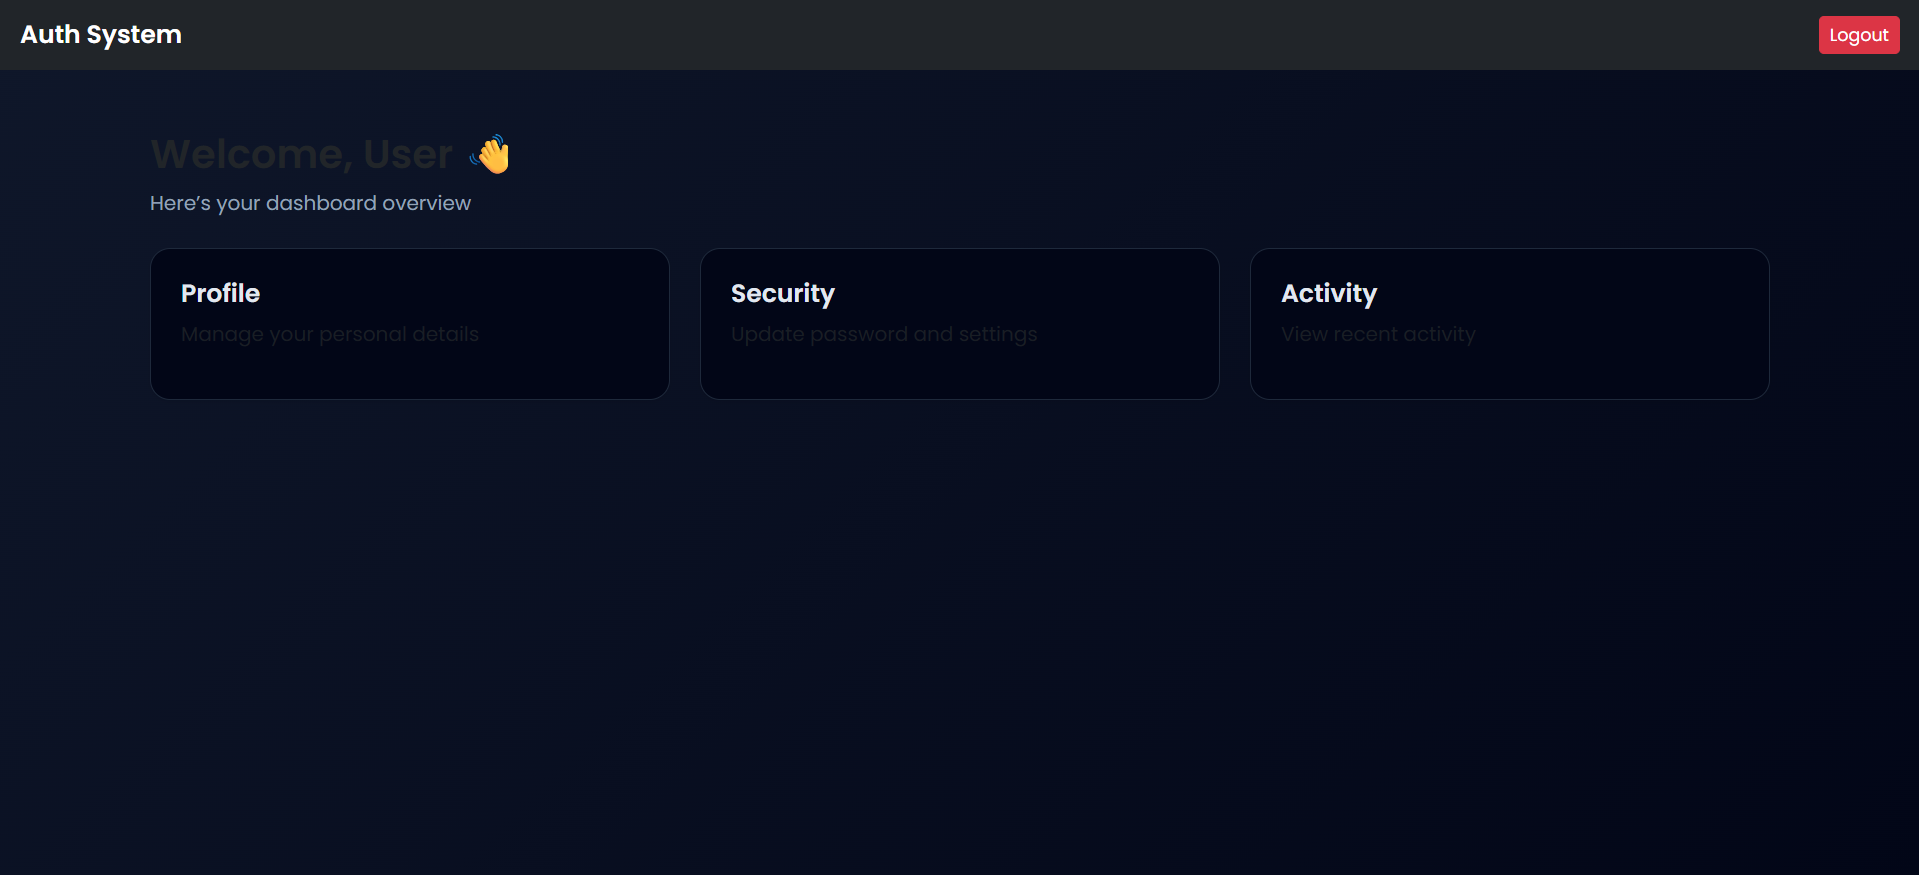
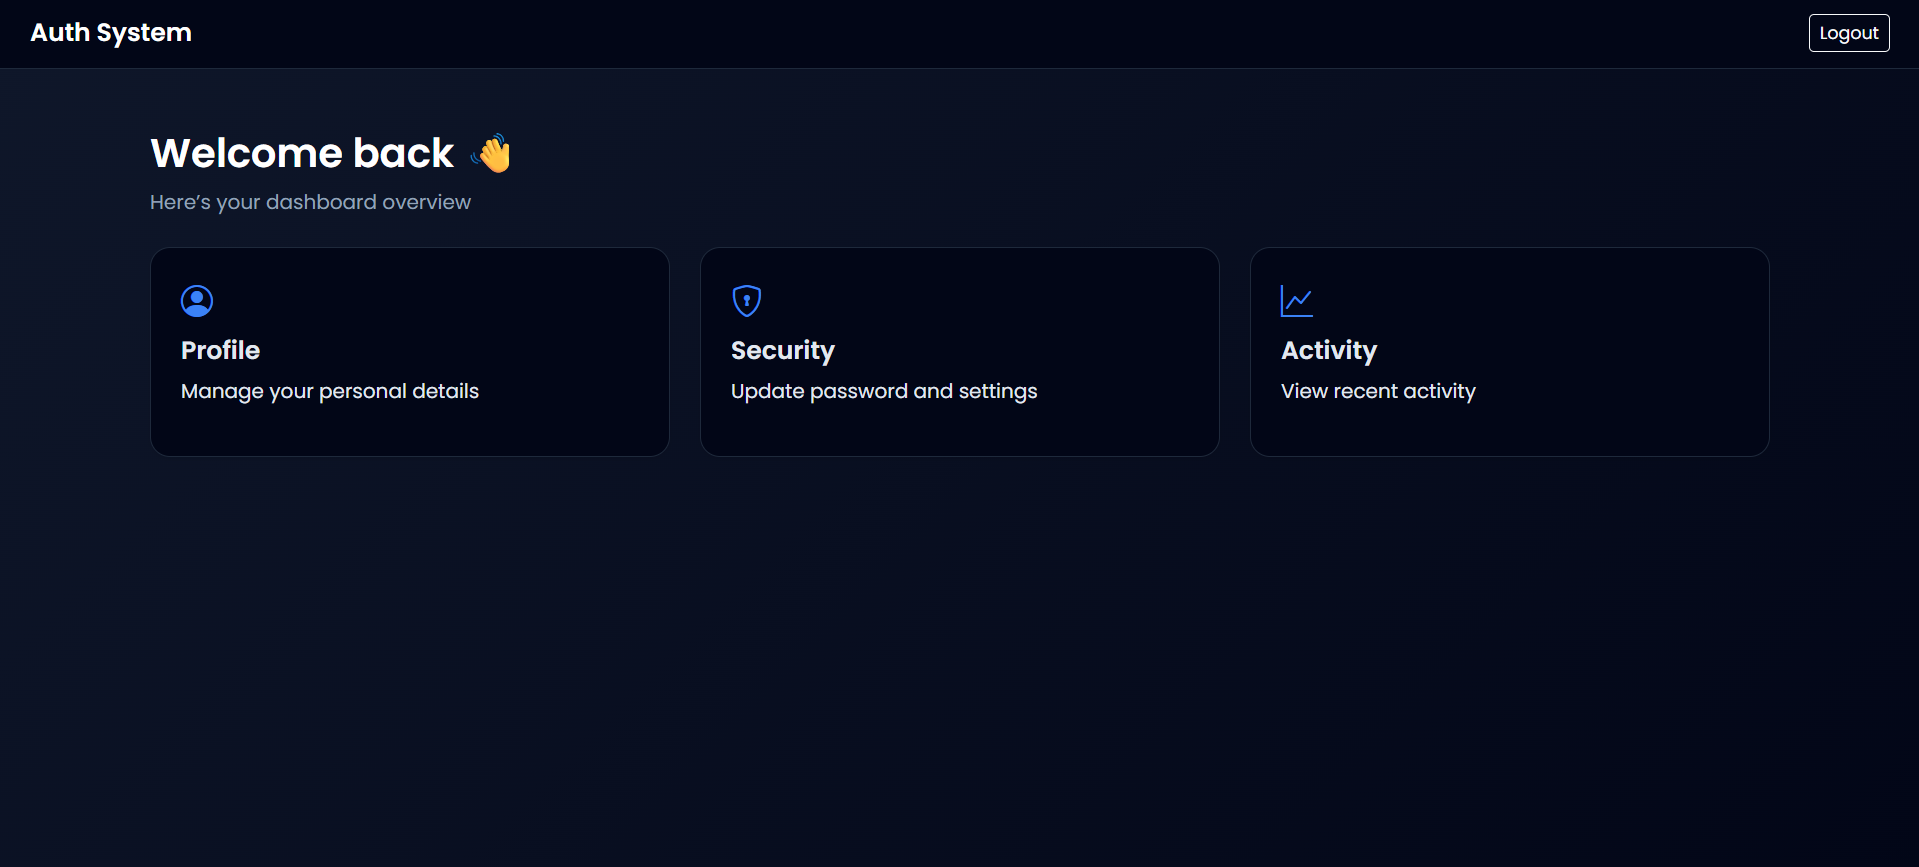
Final UI polish and improvements

diff --git a/dashboard.html b/dashboard.html
@@ -21,18 +21,18 @@
 <body>
 
   <!-- Navbar -->
-  <nav class="navbar navbar-dark bg-dark px-3">
-    <span class="navbar-brand fw-bold">Auth System</span>
-    <a href="index.html" class="btn btn-danger btn-sm">Logout</a>
-  </nav>
+<nav class="navbar px-4" style="background:#020617; border-bottom:1px solid #1e293b;">
+  <span class="navbar-brand fw-bold text-white">Auth System</span>
+  <a href="index.html" class="btn btn-outline-light btn-sm">Logout</a>
+</nav>
 
   <!-- Main Content -->
   <div class="container py-5">
 
     <!-- Welcome -->
     <div class="mb-4">
-      <h2 class="fw-bold">Welcome, User 👋</h2>
-      <p class="text-secondary">Here’s your dashboard overview</p>
+      <h2 class="fw-bold text-white">Welcome back 👋</h2>
+      <p style="color:#94a3b8;">Here’s your dashboard overview</p>
     </div>
 
     <!-- Cards -->
@@ -41,24 +41,27 @@
       <!-- Card 1 -->
       <div class="col-md-4">
         <div class="card p-4 shadow-sm">
+         <i class="bi bi-person-circle mb-2" style="font-size: 1.6rem; color:#3b82f6;"></i>
           <h5 class="fw-bold">Profile</h5>
-          <p class="text-muted">Manage your personal details</p>
+          <p>Manage your personal details</p>
         </div>
       </div>
 
       <!-- Card 2 -->
       <div class="col-md-4">
-        <div class="card p-4 shadow-sm">
-          <h5 class="fw-bold">Security</h5>
-          <p class="text-muted">Update password and settings</p>
-        </div>
+       <div class="card p-4 shadow-sm">
+       <i class="bi bi-shield-lock mb-2" style="font-size: 1.6rem; color:#3b82f6;"></i>
+        <h5 class="fw-bold">Security</h5>
+      <p>Update password and settings</p>
+       </div>
       </div>
 
       <!-- Card 3 -->
       <div class="col-md-4">
         <div class="card p-4 shadow-sm">
-          <h5 class="fw-bold">Activity</h5>
-          <p class="text-muted">View recent activity</p>
+        <i class="bi bi-graph-up mb-2" style="font-size: 1.6rem; color:#3b82f6;"></i>
+         <h5 class="fw-bold">Activity</h5>
+         <p>View recent activity</p>
         </div>
       </div>
 

diff --git a/css/styles.css b/css/styles.css
@@ -135,6 +135,13 @@ body {
 }
 
 .card:hover {
-  transform: translateY(-5px);
-  box-shadow: 0 10px 30px rgba(0,0,0,0.5);
+  transform: translateY(-6px);
+  box-shadow: 0 15px 40px rgba(0,0,0,0.6);
+}
+.btn-primary:active {
+  transform: scale(0.98);
+}
+.form-control:focus {
+  border-color: #3b82f6;
+  box-shadow: 0 0 0 2px rgba(59,130,246,0.25);
 }
